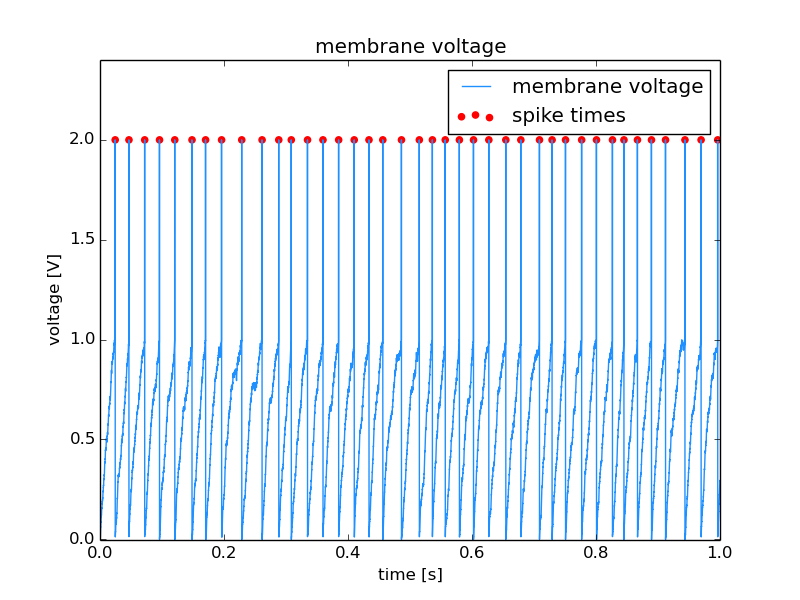
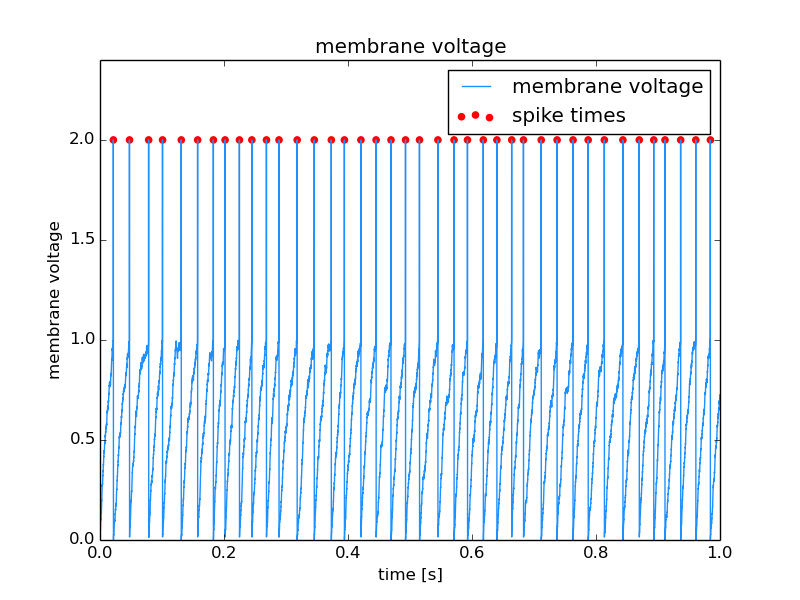
[tutorial] imporved axis labeling, figure update

Changed region(s): [[0.125, 0.21, 0.9062, 0.9], [0.0625, 0.36, 0.0938, 0.63]]

diff --git a/docs/source/examples/spikeTagging.py b/docs/source/examples/spikeTagging.py
@@ -11,17 +11,10 @@
 
  Author: Jan Grewe <jan.grewe@g-node.org>
 
- This tutorial shows how to store image data in nix-files.
- See https://github.com/G-node/nix/wiki for more information.
- 
- We use the "Lenna" image in this tutorial.  
+ This tutorial shows how to store a voltage trace and marks in this
+ voltage trace innix-files.
 
- "Lenna" by Original full portrait: "Playmate of the Month". Playboy
- Magazine. November 1972, photographed by Dwight Hooker.This 512x512
- electronic/mechanical scan of a section of the full portrait:
- Alexander Sawchuk and two others[1] - The USC-SIPI image
- database. Via Wikipedia -
- http://en.wikipedia.org/wiki/File:Lenna.png#mediaviewer/File:Lenna.png
+ See https://github.com/G-node/nix/wiki for more information.
 
 """
 
@@ -51,8 +44,8 @@ def plot_data(tag):
 
     plt.plot(time, voltage, color='dodgerblue', label=data_array.name)
     plt.scatter(spike_times, np.ones(spike_times.shape)*np.max(voltage), color='red', label=tag.name)
-    plt.xlabel(x_axis.label + " [" + x_axis.unit + "]")
-    plt.ylabel(data_array.label + " [" + data_array.unit + "]")
+    plt.xlabel(x_axis.label + ((" [" + x_axis.unit + "]") if x_axis.unit else ""))
+    plt.ylabel(data_array.label + ((" [" + data_array.unit + "]") if data_array.unit else ""))
     plt.title(data_array.name)
     plt.xlim(0, np.max(time))
     plt.ylim((1.2 * np.min(voltage), 1.2 * np.max(voltage)))
@@ -73,8 +66,7 @@ if __name__ == '__main__':
 
     # create a 'DataArray' to take the membrane voltage
     data = block.create_data_array("membrane voltage", "nix.regular_sampled.time_series", data=voltage)
-    data.unit = "V"
-    data.label = "voltage"
+    data.label = "membrane voltage"
     # add descriptors for time axis
     time_dim = data.append_sampled_dimension(time[1]-time[0])
     time_dim.label = "time"
